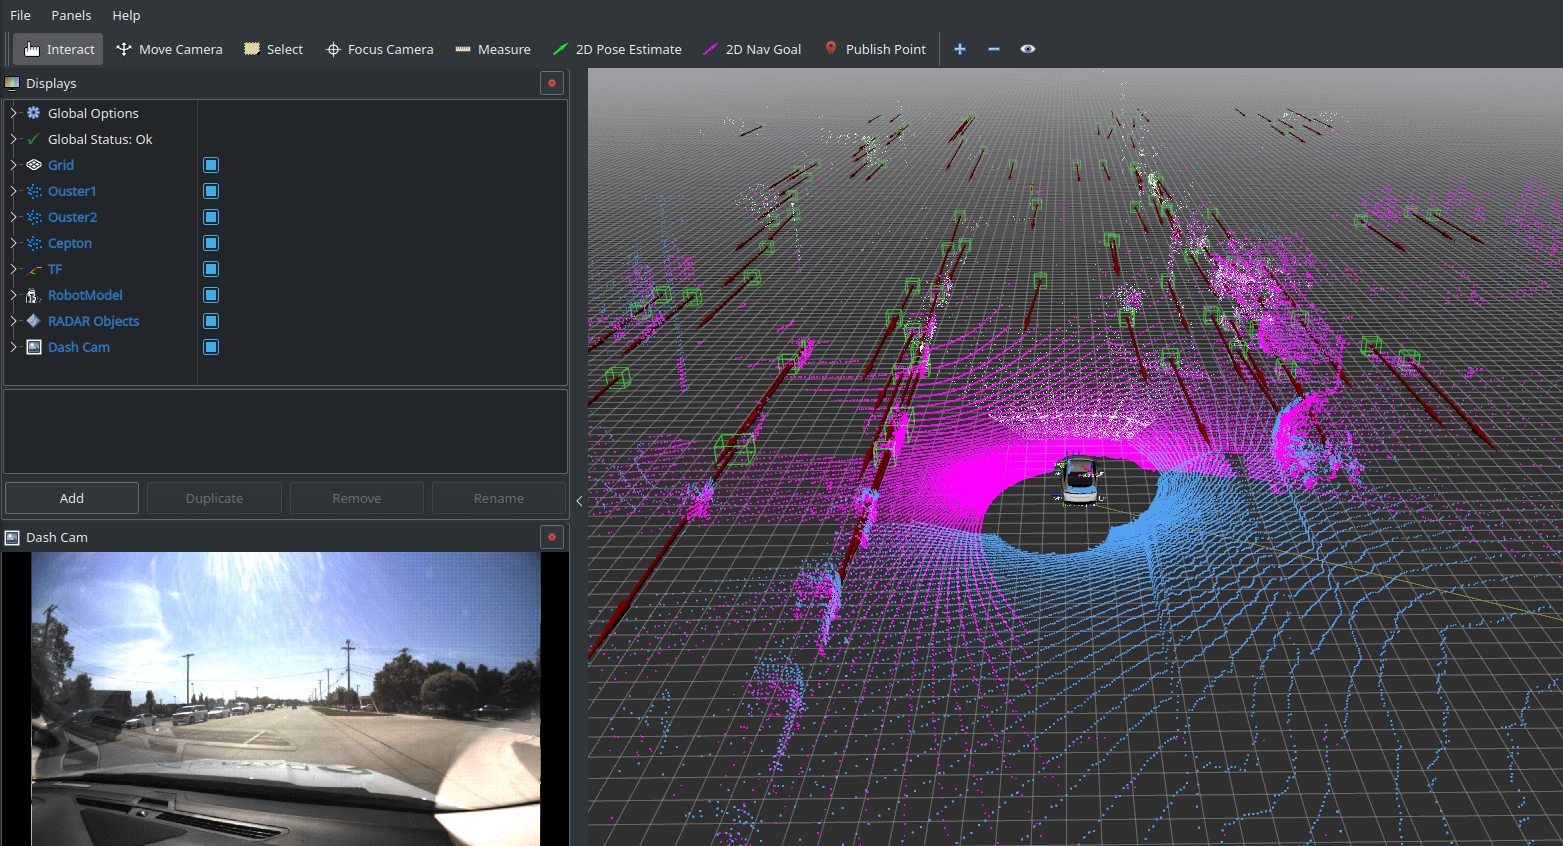
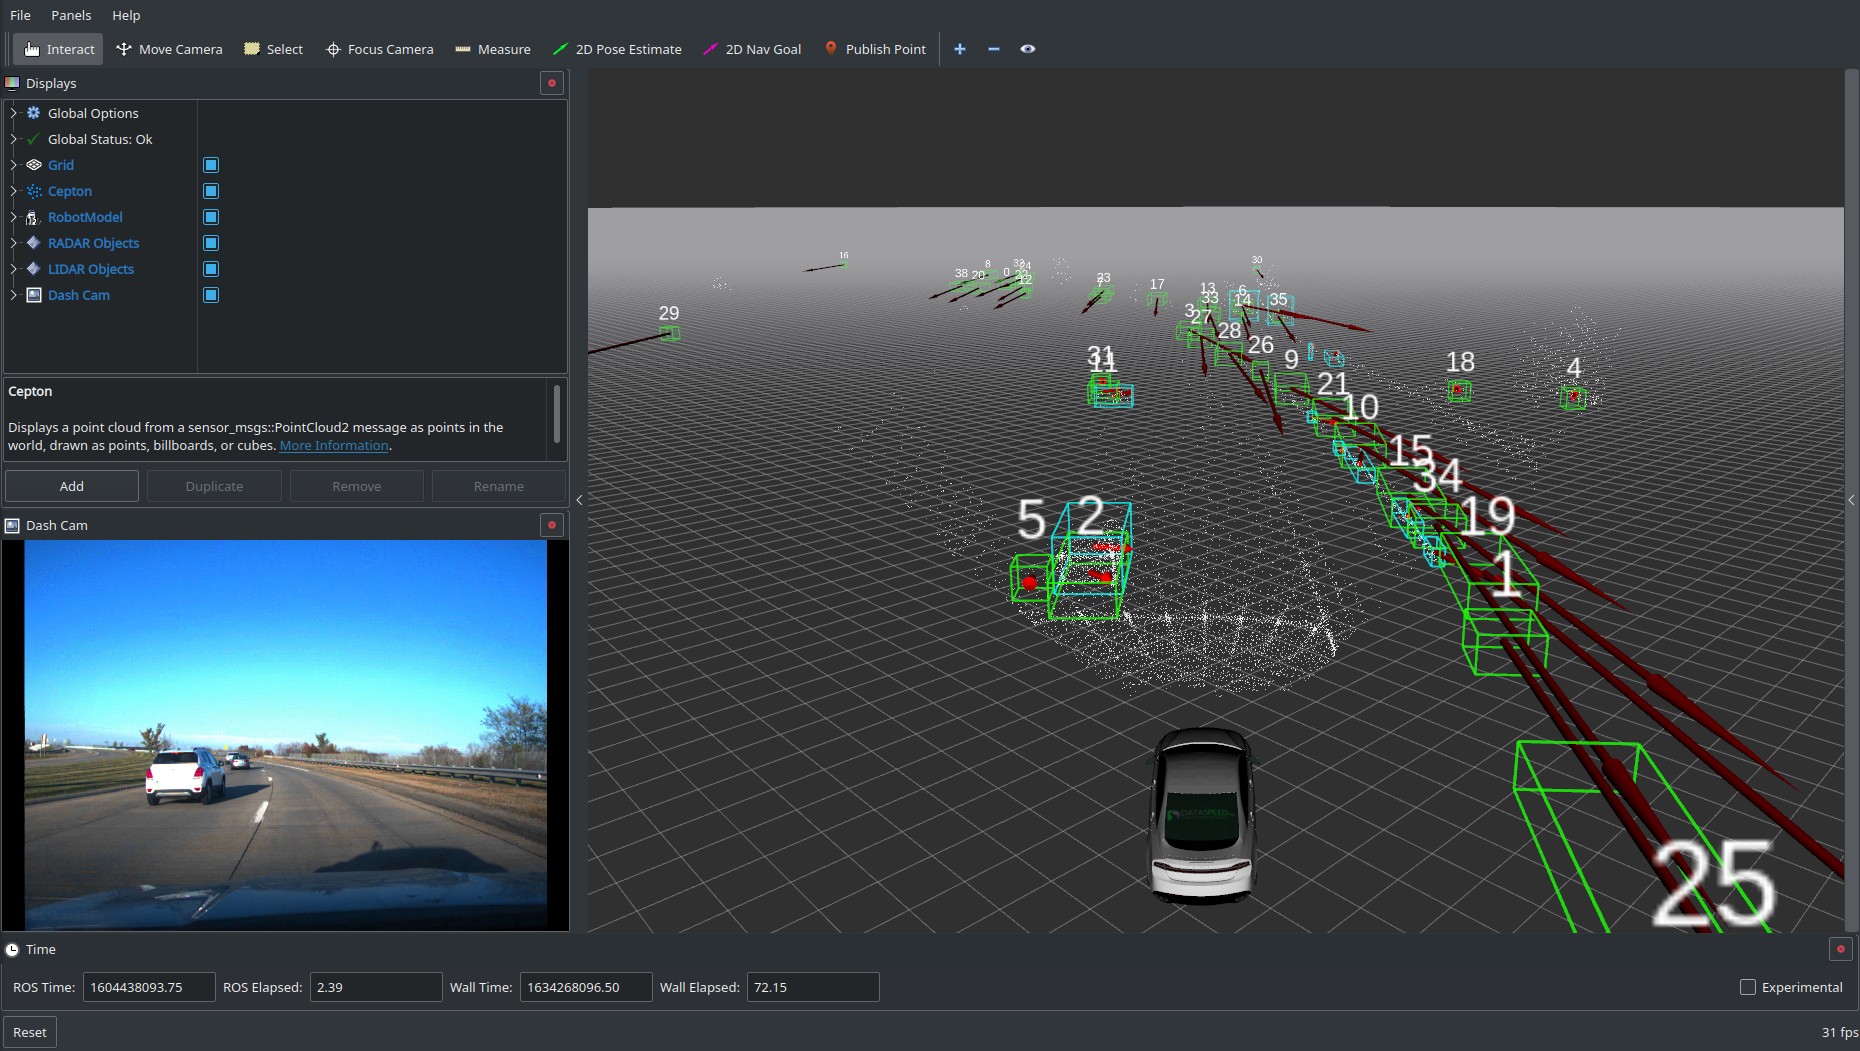
Fill in README documentation

diff --git a/sensor_fusion_projects/README.md b/sensor_fusion_projects/README.md
@@ -2,12 +2,68 @@
 ![Camera / LIDAR Fusion](../img/camera_lidar_fusion.png)
 
 ## Quick-Start Guide
-To run the system as shown in the screenshot above and to start exploring the system, first download either `road_data_sample_with_labels.bag` or `pedestrian_with_labels.bag` to your computer. Then, start the software:
+
+To run the system as shown in the screenshot above and to start exploring the system, first download `road_data_sample_with_labels.bag` to your computer. Then, start the software:
 ```
-roslaunch camera_lidar_project camera_lidar_fusion.launch
+roslaunch sensor_fusion_projects camera_lidar_fusion.launch
 ```
 Then play the bag file:
 ```
 rosbag play --clock road_data_sample_with_labels.bag
 ```
 
+In Rviz, the image on the left side of the screen renders the 3D green wireframes seen on the right side of the screen over the camera image according to the TF transform between the LIDAR and the camera.
+
+The top left image shows an image where the 3D LIDAR boxes are projected into 2D regions-of-interest in the image.
+
+The top right image shows neural network classifications of objects in the image.
+
+## Ideas
+
+Here are some ideas for things that can be investigated.
+
+### *Investigate methods of associating classification labels with LIDAR boxes*
+
+Playing back the road data sample will show that the LIDAR bounding boxes can be noisy and tends to detect and track things on the side of the road like guard rails and road signs. It could be useful to make use of the camera data to tell which LIDAR boxes are things of interest, like people, cars, animals, etc.
+
+There are two viable strategies to do this: perform processing in the image domain, or 3D domain. Image domain means using the red ROI boxes from the top left image and comparing them to the green boxes in the upper right image to determine correspondence. 3D domain means projecting the green classification boxes out into the 3D world and seeing where they intersect with LIDAR data.
+
+### *Focus on pedestrian detection and tracking*
+
+You can download a different bag file called `pedestrian_with_labels.bag` in which the vehicle is stationary and a pedestrian walks around in front of the vehicle, and goes in and out of view. Using the classification label of 'person', perhaps a different object tracking model could be implemented or optimized?
+
+### *Implement a traffic light state detector*
+
+Using the classification labels, try to determine the current state of the traffic light for anything that is classified as a traffic light. Then, get a little more picky and try to only detect the state of the traffic light over the vehicle's lane.
+
+In a real situation, a narrower field-of-view camera should be used to get better resolution of the traffic light. Don't worry about detecting the light state after it is too late to act.
+
+### *Run neural network classification live instead of using pre-labelled data*
+
+The `road_data_sample_with_labels.bag` file contains all object classification data a priori in case it is not possible or desired to run the neural network live. However, it is possible to run the network live. Instead of downloading the bag with the label data embedded in it, download `road_data_sample.bag` or `pedestrian.bag`.
+
+To run the network, you will need to clone this repository: [https://github.com/robustify/yolo_classification.git](https://github.com/robustify/yolo_classification.git). You will also need to follow the instructions in that repository's README for how to install CUDA, and how to compile and configure the neural network library. Also, running the network is only possible if you have a discrete NVIDIA GPU in your computer.
+
+# RADAR / LIDAR Fusion
+![RADAR / LIDAR Fusion](../img/radar_lidar_fusion.png)
+
+## Quick-Start Guide
+
+First, start the software:
+```
+roslaunch sensor_fusion_projects radar_lidar_fusion.launch
+```
+Then play the bag file:
+```
+rosbag play --clock road_data_sample_with_labels.bag
+```
+
+In Rviz, the green boxes are object data directly reported by the RADAR over CAN. The blue boxes are segmented and tracked objects from the LIDAR. The red arrows visualize the relative velocity of the objects. The length of the arrow represents a projection of one second of relative velocity.
+
+## Ideas
+
+Here are some ideas for things that can be investigated.
+
+### *Investigate merging corresponding objects into one track*
+
+As seen in Rviz, the LIDAR boxes and RADAR boxes sometimes correspond to each other. The RADAR can detect objects at much farther range and directly measure the relative velocity, but LIDAR provides richer and more accurate range data up close. By combining the object tracks between these two sensors, the benefits of both can be realized.

diff --git a/README.md b/README.md
@@ -1,40 +1,53 @@
 # Project Ideas for ECE 6460
 
-This repository contains starting points and configuration for some project ideas that involve processing ROS bag files recorded from a real autonomous test vehicle. The bag files to use for these sample projects can be found here: [https://1drv.ms/f/s!Ar6id-4c-fy3rAeC7-dnhQGdWy6h](https://1drv.ms/f/s!Ar6id-4c-fy3rAeC7-dnhQGdWy6h).
+This repository contains starting points and configuration for some project ideas, some involving processing real data and some involving Gazebo simulations. The bag files to use for these sample projects can be found here: [https://1drv.ms/f/s!Ar6id-4c-fy3rAeC7-dnhQGdWy6h](https://1drv.ms/f/s!Ar6id-4c-fy3rAeC7-dnhQGdWy6h).
 
-The `dataset_playback` package contains a launch file with supporting configuration to play back the data from any of the bag files that are numbered datasets. `dataset_playback.launch` runs the necessary nodes to process the raw data from the bag and set up the TF frame tree to align all the sensor data with the vehicle body frame. It also uses the RTK GNSS position to update a TF frame from a central map frame to the vehicle body frame.
+The `dataset_playback` package contains a launch file with supporting configuration to play back the data from the following bag files:
 
-The numbered dataset bag files are intended for any projects involving real world data, whereas the bag files that are not numbered datasets are intended for the specific project ideas in this repository.
+- `road_data_sample.bag`
+- `road_data_sample_with_labels.bag`
+- `pedestrian.bag`
+- `pedestrian_with_labels.bag`
+- `stereo_camera_example.bag`
+
+`dataset_playback.launch` ([dataset_playback/launch/dataset_playback.launch](dataset_playback/launch/dataset_playback.launch)) runs the necessary nodes to process the raw data from the bag and set up the TF frame tree to align all the sensor data with the vehicle body frame. It also uses the RTK GNSS position to update a TF frame from a central map frame to the vehicle body frame.
 
 ## Projects Using Real Data
 
 ### LIDAR Localization
+
+Use real data from a 3D LIDAR sensor to construct a map of an environment, then use the map for localizing the vehicle as an alternative to GPS.
+
+For more details, see the [project-specific README](lidar_slam_project/README.md)
+
 ![LIDAR Mapping](img/lidar_slam.png)
 
-INTRO HERE
+### Sensor Fusion
 
-### Camera / LIDAR Fusion
-![Camera / LIDAR Fusion](img/camera_lidar_fusion.png)
+Process data from multiple sensors to perceive better information about the environment than is possible with a single sensor.
 
-INTRO HERE
+For more details, see the [project-specific README](sensor_fusion_projects/README.md)
 
-[More Info](camera_lidar_project/README.md)
+![Camera / LIDAR Fusion](img/camera_lidar_fusion.png "Combine data from camera and LIDAR to detect and classify objects")
 
-### Stereo Camera Processing (More Info Soon)
-![Stereo Camera Processing](img/stereo_processing.png)
+![RADAR / LIDAR Fusion](img/radar_lidar_fusion.png "Combine data from RADAR and LIDAR for more robust object tracking")
 
-[More Info](stereo_camera_project/README.md)
+## Simulation Projects
 
-### RADAR / LIDAR Fusion
+### Traffic Light Detection and Control
 
-![RADAR / LIDAR Fusion](img/radar_lidar_fusion.png)
+Detect a traffic light and determine its state in Gazebo, then use that information to control the car to continue through or stop at the intersection.
 
-Download `road_data_sample.bag` to your computer and launch the playback software:
-```
-roslaunch dataset_playback dataset_playback.launch
-```
-Then play the bag file:
-```
-rosbag play --clock road_data_sample.bag
-```
-In Rviz, the pink, blue, and white point clouds are the raw scan data from three different LIDAR sensors. The green boxes are objects detected by the RADAR, and the red arrows visualize the relative velocity of the objects as measured by the RADAR.
+For more details, see the [project-specific README](intersection_sim_project/README.md)
+
+![Gazebo Intersection](img/intersection_sim_gazebo.png)
+![Simulated Cameras](img/intersection_sim.png)
+
+### Interacting with Other Vehicles
+
+Drive around an oval track with other vehicles. There are some two-lane sections that could be used for passing...
+
+For more details, see the [project-specific README](traffic_sim_project/README.md)
+
+![Gazebo Road](img/traffic_sim_gazebo.png)
+![Route Network](img/traffic_sim.png)

diff --git a/intersection_sim_project/README.md b/intersection_sim_project/README.md
@@ -1,0 +1,43 @@
+# Intersection Sim Project
+![Gazebo Intersection](../img/intersection_sim_gazebo.png)
+![Simulated Cameras](../img/intersection_sim.png)
+
+## Quick-Start Guide
+
+To run the simulation, run the following launch command:
+```
+roslaunch intersection_sim_project sim_launch.launch
+```
+The vehicle will automatically drive around the loop using the programmed route shown as the green line in Rviz. It will ignore the color of the lights for now...
+
+## Ideas
+
+Here are some ideas for things that can be investigated with this simulation.
+
+### *Use localization to determine where the lights should be in the image*
+
+Real-world autonomous vehicles typically create detailed maps of their operating environments, including the locations of static infrastructure like traffic lights. The vehicle's localization system is then used to know where the lights should be in the camera's image.
+
+This simulation emulates this capability by providing a TF transform from each traffic light to Gazebo's world frame. Using a TF lookup from the traffic light frame (child) to the vehicle's camera frame (parent), the position of the light can be determined relative to the camera, and an image region-of-interest (ROI) can be selected accordingly to focus a state detector.
+
+Consider using the orientation of the traffic light frame with respect to the vehicle to determine which of the four lights is facing the vehicle.
+
+### *Actively detect and classify traffic lights using machine learning*
+
+If your computer has a discrete NVIDIA graphics card, you can run a neural network classifier to detect the traffic lights and extract their ROIs. To do this, you will need to clone this repository: [https://github.com/robustify/yolo_classification.git](https://github.com/robustify/yolo_classification.git). You will also need to follow the instructions in that repository's README for how to install CUDA, and how to compile and configure the neural network library.
+
+After setting up the `yolo_classification` package, run this launch command while the simulation is running to detect the traffic lights:
+
+```
+roslaunch yolo_classification yolo_classification.launch camera_name:=/traffic_light_camera run_image_proc:=true image_topic:=image_rect_color
+```
+
+The output image with the classifications overlaid is published on `/traffic_light_camera/yolo_image` and can be visualized using `rqt_image_view`.
+
+### *Use color-based processing to determine the current light state*
+
+After extracting the ROI corresponding to a traffic light using one of the above techniques, write an image processing algorithm to determine whether red, yellow, or green is currently lit and output that state on a ROS topic.
+
+### *Control the speed and acceleration of the vehicle to stop if necessary*
+
+Use TF to determine how far the car is from the light at any given moment, and use that distance to regulate the speed of the vehicle to stop at the intersection if the light is red (or yellow... sometimes...)

diff --git a/traffic_sim_project/README.md b/traffic_sim_project/README.md
@@ -1,0 +1,29 @@
+# Traffic Sim Project
+![Gazebo Road](../img/traffic_sim_gazebo.png)
+![Route Network](../img/traffic_sim.png)
+
+## Quick-Start Guide
+
+To run the simulation, run the following launch command:
+```
+roslaunch traffic_sim_project sim_launch.launch
+```
+The vehicle will automatically drive around the loop using the programmed route shown as the green line in Rviz. It will avoid colliding with the other traffic vehicle encountered around the first bend, but if only there were some way to avoid being stuck behind the slow-poke...
+
+The programmed routes for the ego vehicle and the traffic vehicles can be customized by modifying the simulation configuration file ([yaml/oval_world_scenario.yaml](yaml/oval_world_scenario.yaml)).
+
+The route sequence lists describe the order of map nodes to traverse, as well as the target speed for that segment. To see where each of the node IDs are to modify the routes, activate the 'Route Map' display in Rviz, which will show the markers in the above screenshot. The markers show the geometry of the routes, the location and orientation of the nodes, and a text marker with the ID number.
+
+Traffic vehicles can be added or removed by simply copying or deleting an entire list entry under `traffic_vehicles`. Traffic vehicles spawn at the first node ID in the route sequence list, and when they reach the end, they teleport back to the first node. They will sit still until the ego vehicle comes close enough to them, as specified in the `start_dist` parameter.
+
+## Ideas
+
+Here are some ideas for things that can be investigated with this simulation.
+
+### *Implement vision-only lane keeping*
+
+Instead of following the programmed route, try to use just the camera to detect the lane markings and then steer to the middle. This is relatively easy when there are two parallel lines, but how to deal with the merges?
+
+### *Pass slow-moving vehicles*
+
+While following the programmed route, determine if there is a lane available for passing and execute a lane change maneuver to pass. White dashed lines are the only lines that should be crossed...

diff --git a/lidar_slam_project/README.md b/lidar_slam_project/README.md
@@ -35,3 +35,7 @@ Stop the map building software and bag playback. Move the saved point cloud file
 roslaunch lidar_slam_project lidar_localization.launch
 ```
 Play the same `campus_drive_083019.bag` file again. In Rviz, click the "2D Pose Estimate" button, then click where the vehicle starts on the map, drag in the direction of the way the vehicle is facing, and let go. This initializes the localization estimate.
+
+## Fuse LIDAR Localization with Odometry
+
+The LIDAR localization system only outputs new position and orientation estimates at the same rate as the LIDAR, which is 10 Hz. This is usually not sufficient for control applications that require a localization estimate. Therefore, adding vehicle speed and yaw rate with the LIDAR localization and implementing a Kalman filter to provide position and orientation estimates at a higher rate could be very helpful...
